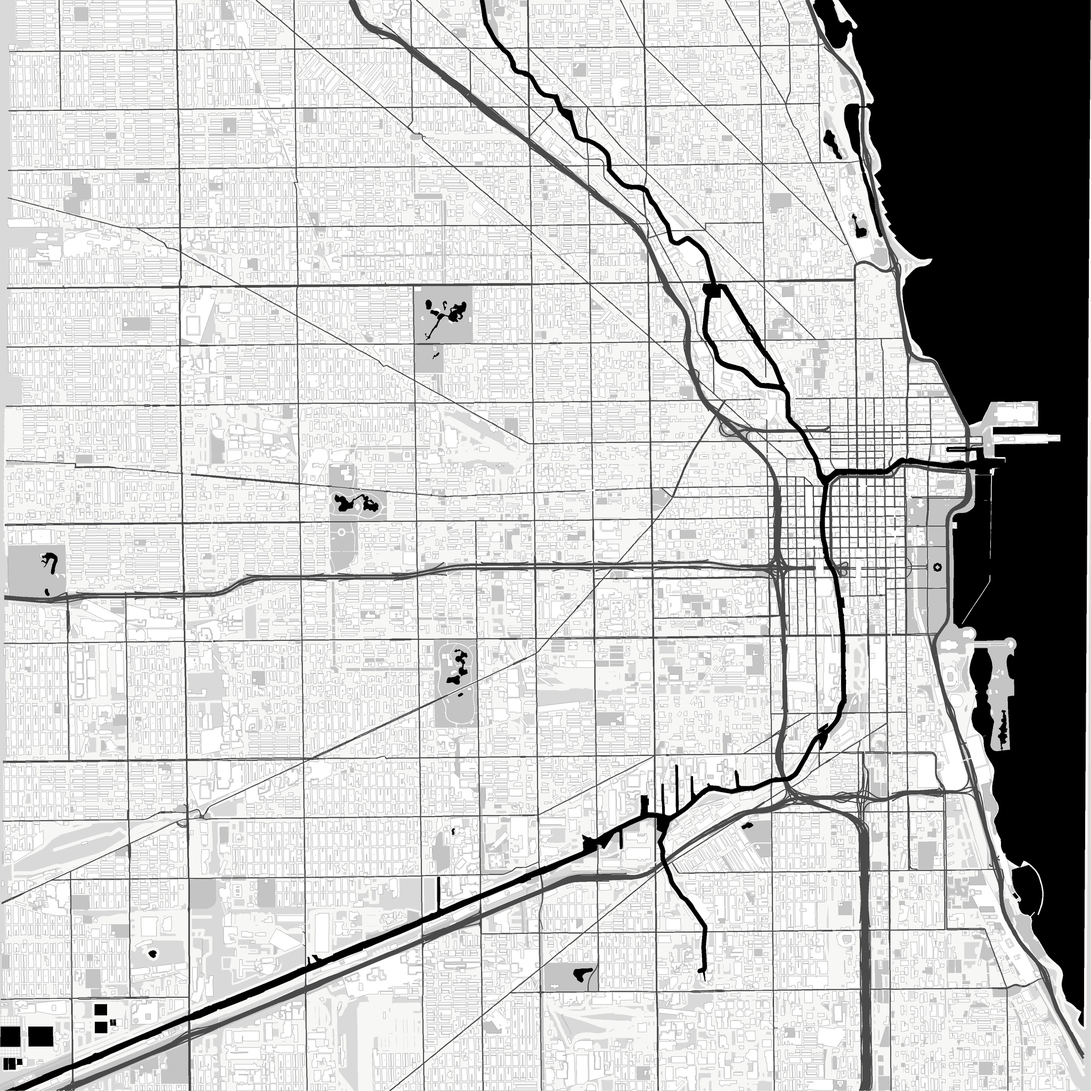
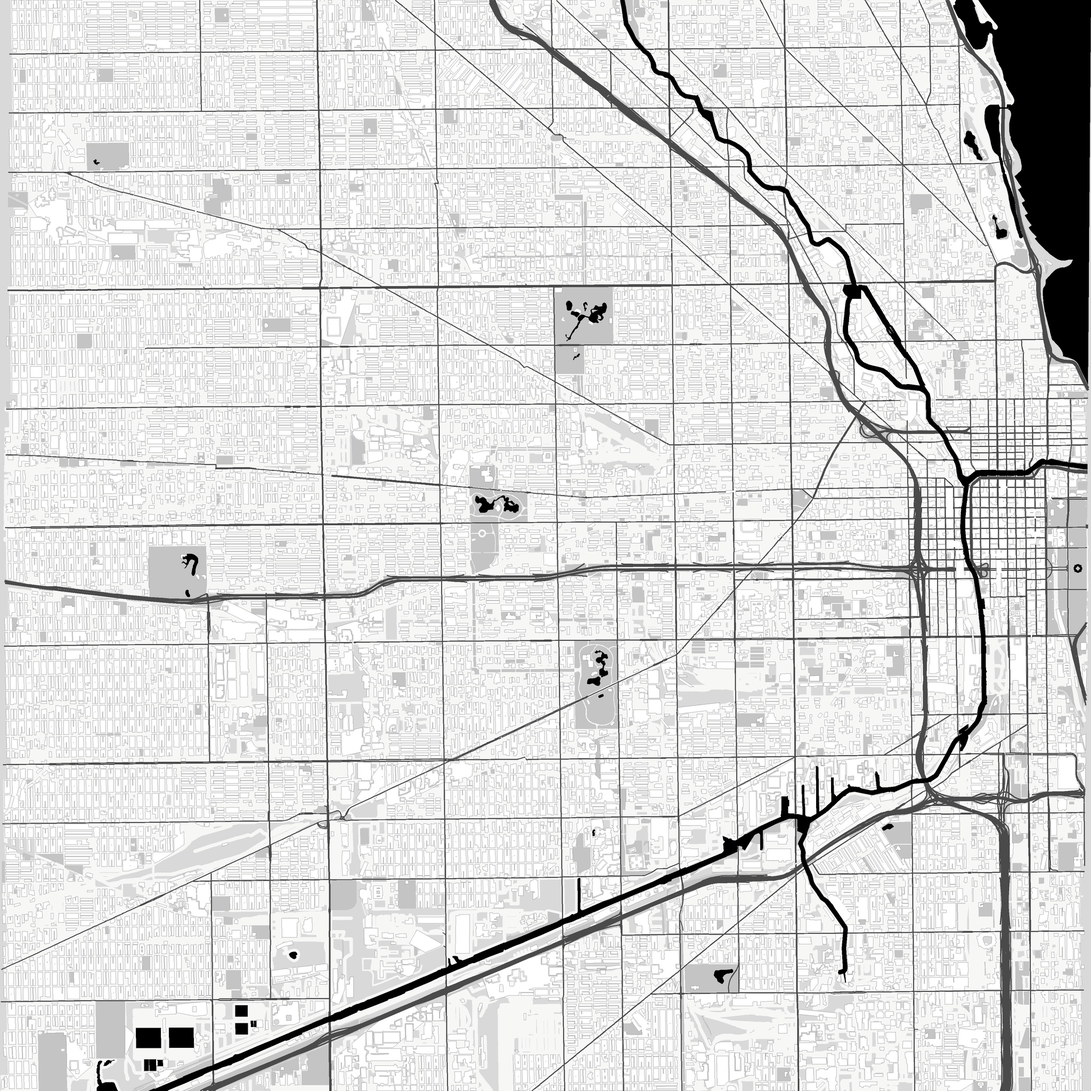
fix(web): reframe Chicago beyond lake breakwaters

diff --git a/webapp/static/app.js b/webapp/static/app.js
@@ -376,7 +376,7 @@ const FALLBACK_HERO_SAMPLES = [
     alt: "真实生成的巴黎 15 公里乘 15 公里精细风格图",
   },
   {
-    url: "assets/chicago-15km-dense.jpg?release=chicago-water-gap-v52",
+    url: "assets/chicago-15km-dense.jpg?release=chicago-no-breakwater-v53",
     kind: "真实 15 × 15 KM 输出",
     location: "CHICAGO / DENSE DETAIL",
     title: "湖岸天际线与棋盘街区",
